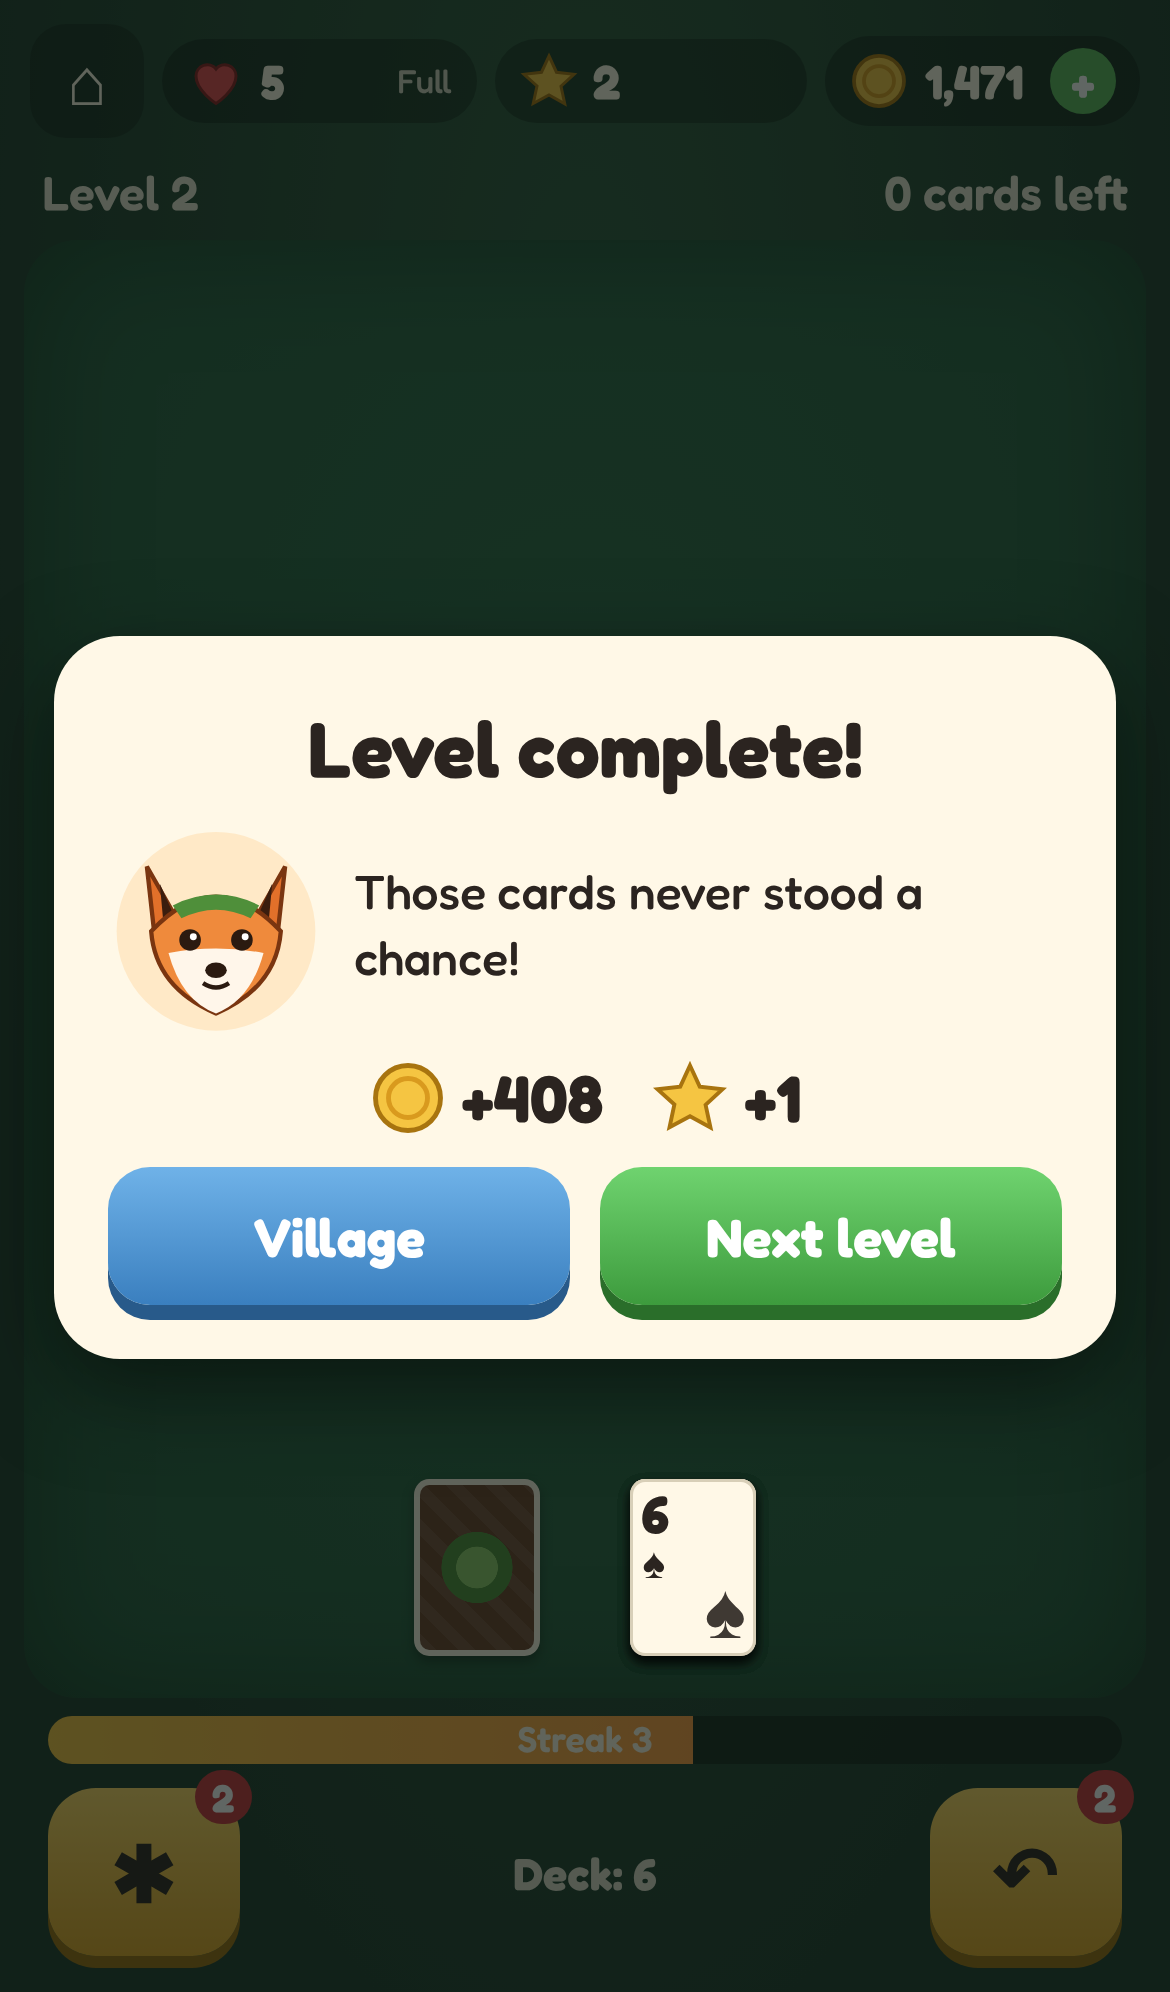
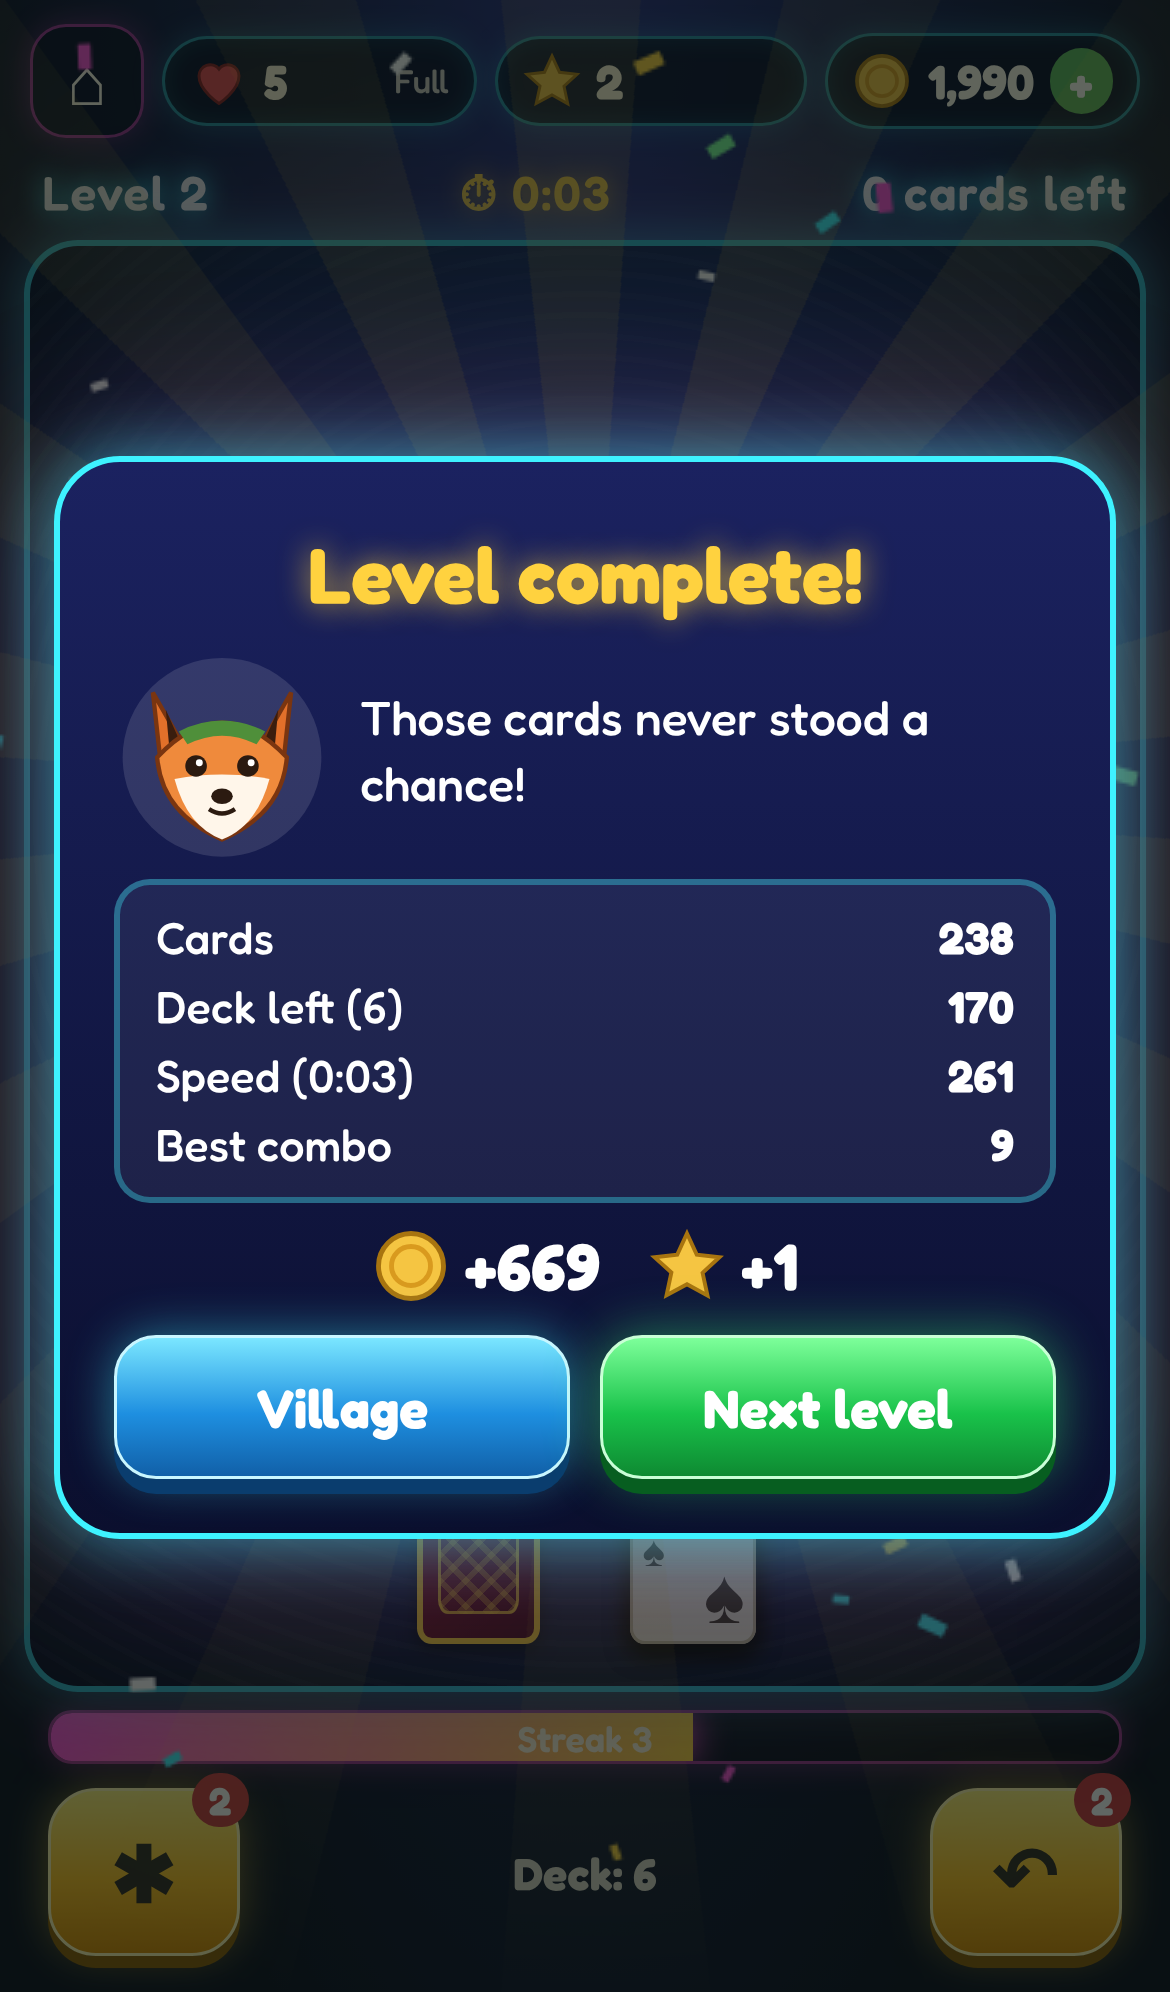
feat(mossbrook): bar-table look and feel (dark neon theme, glossy cards, combo popups, round timer, speed bonus, score tally, confetti win)
Story: mossbrook plan phase 2

Claude-Session: https://claude.ai/code/session_01QqDVFmBhHUwcQ7xNRuR2UE

diff --git a/mossbrook/web/game.js b/mossbrook/web/game.js
@@ -18,6 +18,7 @@ const T = {
     coinsSub: '', appOnly: 'Purchases are only available in the app.', pending: 'Payment is being processed.',
     buyErr: 'The store is not reachable right now. Please try again.', thanks: 'Thank you! Items added.',
     settings: 'Settings', sound: 'Sound', privacy: 'Privacy policy', support: 'Support', version: 'Version',
+    tCards: 'Cards', tDeck: 'Deck left ({0})', tTime: 'Speed ({0})', tCombo: 'Best combo', comboX: 'Combo x{0}', combos: ['Nice!', 'Great!', 'Super!', 'Amazing!', 'Unstoppable!'],
     tip1: 'Tap a card that is one higher or one lower than the open card. King and Ace connect!',
     tip2: 'No match? Tap the deck to draw a new card.',
     tip3: 'Clear all cards to win. Every card in a row fills your streak for bonus coins.',
@@ -45,6 +46,7 @@ const T = {
     coinsSub: '', appOnly: 'Käufe gibt es nur in der App.', pending: 'Zahlung wird bearbeitet.',
     buyErr: 'Der Store ist gerade nicht erreichbar. Bitte nochmal versuchen.', thanks: 'Danke! Inhalte hinzugefügt.',
     settings: 'Einstellungen', sound: 'Ton', privacy: 'Datenschutz', support: 'Support', version: 'Version',
+    tCards: 'Karten', tDeck: 'Rest-Stapel ({0})', tTime: 'Tempo ({0})', tCombo: 'Beste Serie', comboX: 'Serie x{0}', combos: ['Gut!', 'Klasse!', 'Super!', 'Wahnsinn!', 'Unaufhaltsam!'],
     tip1: 'Tippe eine Karte, die eins höher oder eins tiefer ist als die offene Karte. König und Ass passen auch!',
     tip2: 'Nichts passt? Tippe auf den Stapel für eine neue Karte.',
     tip3: 'Räume alle Karten ab, um zu gewinnen. Karten am Stück füllen die Serie für Bonus-Münzen.',
@@ -172,18 +174,19 @@ function hud() {
   if (G) { $('jokerN').textContent = S.jokers; $('undoN').textContent = S.undos;
     $('btnJoker').classList.toggle('off', !S.jokers); $('btnUndo').classList.toggle('off', !S.undos || !G.hist.length); }
 }
-setInterval(hud, 1000);
+setInterval(() => { hud(); if (G && !G.over) $('gTime').textContent = '\u23F1 ' + fmtTime(now() - G.t0); }, 1000);
 
 // ---------- village ----------
 function sceneSVG() {
-  const sky = [['#9fd8f5', '#e6f6ff'], ['#f7a46b', '#ffe0b8'], ['#a9c3e0', '#eef4fb']][S.district % 3];
-  const grass = [['#86c06a', '#5f9e4c'], ['#a9c46a', '#7a9e3f'], ['#e9f0f5', '#c9d6df']][S.district % 3];
+  const sky = [['#0d1240', '#3b3a8f'], ['#2a1450', '#d9675a'], ['#0b2140', '#3f6f9a']][S.district % 3];
+  const grass = [['#3f7a4a', '#2c5a3a'], ['#6a7a3a', '#4a5a2a'], ['#b9c9d6', '#8fa3b5']][S.district % 3];
   const g = (k, ruin, built) => '<g id="t-' + k + '"><g class="ruin">' + ruin + '</g><g class="built">' + built + '</g></g>';
   return '<svg viewBox="0 0 360 440" preserveAspectRatio="xMidYMid slice">' +
   '<defs><linearGradient id="sky" x1="0" y1="0" x2="0" y2="1"><stop offset="0" stop-color="' + sky[0] + '"/><stop offset="1" stop-color="' + sky[1] + '"/></linearGradient>' +
   '<radialGradient id="glow"><stop offset="0" stop-color="#ffe9a0" stop-opacity=".9"/><stop offset="1" stop-color="#ffe9a0" stop-opacity="0"/></radialGradient></defs>' +
   '<rect width="360" height="440" fill="url(#sky)"/>' +
-  (S.district % 3 === 1 ? '<circle cx="290" cy="70" r="34" fill="#ffcf6b" opacity=".9"/>' : '<circle cx="290" cy="60" r="26" fill="#fff4b0"/>') +
+  Array.from({ length: 26 }, (_, i) => '<circle cx="' + ((i * 137) % 360) + '" cy="' + ((i * 71) % 110 + 6) + '" r="' + (i % 3 ? 1 : 1.8) + '" fill="#fff" opacity="' + (0.4 + (i % 4) * 0.15) + '"/>').join('') +
+  (S.district % 3 === 1 ? '<circle cx="290" cy="80" r="34" fill="#ffb36b" opacity=".9"/>' : '<circle cx="290" cy="56" r="22" fill="#fff8d0"/><circle cx="298" cy="50" r="20" fill="' + sky[0] + '"/>') +
   '<path d="M0 120 Q60 80 130 110 T260 100 T360 115 V440 H0Z" fill="' + grass[1] + '" opacity=".7"/>' +
   '<path d="M0 150 Q90 120 180 140 T360 135 V440 H0Z" fill="' + grass[0] + '"/>' +
   '<path d="M360 150 C300 190 250 200 220 240 C190 280 120 290 90 330 C60 370 30 400 0 420 V440 H40 C70 410 110 380 140 350 C170 320 230 300 260 260 C290 225 330 205 360 190Z" fill="#5aa9d6"/>' +
@@ -368,7 +371,7 @@ function startLevel(n) {
   if (!infinite() && S.lives <= 0) { noLives(); return; }
   closeModal();
   const L = genLevel(n);
-  G = { n, hard: L.hard, cards: L.cards, stock: L.stock, waste: [], hist: [], streak: 0, best: 0, earned: 0, plusN: 0, idle: 0 };
+  G = { n, hard: L.hard, cards: L.cards, stock: L.stock, waste: [], hist: [], streak: 0, best: 0, earned: 0, plusN: 0, idle: 0, t0: now() };
   $('village').classList.add('hidden'); $('game').classList.remove('hidden');
   $('btnHome').innerHTML = '&#8962;';
   $('gLevel').textContent = t('level', n) + (G.hard ? ' • ' + t('hard') : '');
@@ -408,12 +411,34 @@ function refresh() {
   $('stockCount').textContent = t('stock', G.stock.length);
   const left = G.cards.filter(c => !c.gone).length;
   $('gGoal').textContent = t('cardsLeft', left);
+  G.left = left;
   const pct = Math.min(1, (G.streak % 5) / 5 + (G.streak && G.streak % 5 === 0 ? 1 : 0));
   $('streakFill').style.width = (pct * 100) + '%';
   $('streakTxt').textContent = t('streak', G.streak);
   G.idle = 0;
   hud();
   tutorial();
+}
+function confetti() {
+  const app = $('app'), c = el('canvas'); c.id = 'fx'; c.width = app.clientWidth; c.height = app.clientHeight; app.appendChild(c);
+  const r = el('div', 'rays'); app.appendChild(r);
+  const x = c.getContext('2d'), cols = ['#3ef2ff', '#ff4fd8', '#ffd23f', '#7dff9a', '#ffffff'];
+  const ps = Array.from({ length: 140 }, () => ({ x: c.width / 2, y: c.height * 0.45, vx: (Math.random() - .5) * 14, vy: -Math.random() * 14 - 4, s: 4 + Math.random() * 6, c: cols[Math.floor(Math.random() * 5)], a: Math.random() * 6 }));
+  let f = 0;
+  (function tick() {
+    x.clearRect(0, 0, c.width, c.height);
+    ps.forEach(p => { p.vy += .35; p.x += p.vx; p.y += p.vy; p.a += .2; x.save(); x.translate(p.x, p.y); x.rotate(p.a); x.fillStyle = p.c; x.fillRect(-p.s / 2, -p.s / 4, p.s, p.s / 2); x.restore(); });
+    if (++f < 150) requestAnimationFrame(tick); else c.remove();
+  })();
+  setTimeout(() => r.remove(), 4000);
+}
+function combo(n) {
+  const o = document.getElementById('combo'); if (o) o.remove();
+  const words = T[LANG].combos, w = words[Math.min(words.length - 1, Math.floor((n - 3) / 3))];
+  const d = el('div', '', w + '<small>' + t('comboX', n) + '</small>'); d.id = 'combo';
+  d.style.top = (G.geo.y0 + G.geo.ch * 0.6) + 'px';
+  if (n >= 9) d.classList.add('hot');
+  $('board').appendChild(d); setTimeout(() => d.remove(), 900);
 }
 function flyText(txt, x, y) { const f = el('div', 'fly', txt); f.style.left = x + 'px'; f.style.top = y + 'px'; $('board').appendChild(f); setTimeout(() => f.remove(), 1000); }
 function pushWaste(item) {
@@ -438,6 +463,7 @@ function tapCard(c) {
   c.el.classList.remove('play');
   const [x, y] = cardPos(c);
   flyText('+' + gain, x, y);
+  if (G.streak >= 3) combo(G.streak);
   tone(392 * Math.pow(2, Math.min(G.streak, 14) / 12), .1); haptic('merge');
   refresh();
   checkEnd();
@@ -492,11 +518,13 @@ function checkEnd() {
 function win() {
   G.over = true;
   const tipEl = document.getElementById('tip'); if (tipEl) tipEl.remove();
-  const bonus = 50 + G.stock.length * 20, coins = G.earned + bonus, stars = G.hard ? 2 : 1;
+  const secs = Math.round((now() - G.t0) / 1000), timeB = Math.max(0, (90 - secs) * 3);
+  const deckB = G.stock.length * 20, bonus = 50 + deckB + timeB, coins = G.earned + bonus, stars = G.hard ? 2 : 1;
   S.coins += coins; S.stars += stars; S.level = G.n + 1; S.wins++; save();
-  [523, 659, 784, 1047].forEach((f, i) => setTimeout(() => tone(f, .18), i * 120)); haptic('deliver');
+  [523, 659, 784, 1047].forEach((f, i) => setTimeout(() => tone(f, .18), i * 120)); haptic('deliver'); confetti();
   const line = T[LANG].wrenWin[G.n % T[LANG].wrenWin.length];
   setTimeout(() => modal('<h2>' + t('winT') + '</h2>' + who(fox(), line) +
+    '<div class="tally"><span>' + t('tCards') + '</span><b>' + G.earned + '</b><span>' + t('tDeck', G.stock.length) + '</span><b>' + (50 + deckB) + '</b><span>' + t('tTime', fmtTime(secs * 1000)) + '</span><b>' + timeB + '</b><span>' + t('tCombo') + '</span><b>' + G.best + '</b></div>' +
     '<div class="reward"><span><span class="ic coin"></span>+' + coins + '</span><span><span class="ic star"></span>+' + stars + '</span></div>' +
     '<div class="row">' + btn('mVil', 'blue', t('village')) + btn('mNext', 'green', t('next')) + '</div>', m => {
       m.querySelector('#mVil').onclick = () => { closeModal(); showVillage(); };

diff --git a/mossbrook/web/style.css b/mossbrook/web/style.css
@@ -121,3 +121,54 @@ button { font-family: inherit; cursor: pointer; border: 0; }
 #toast.on { opacity: 1; }
 #tip { position: absolute; left: 10px; right: 10px; bottom: 8px; font-size: 14px; line-height: 1.25; z-index: 400; background: var(--cream); color: var(--ink); border-radius: 14px; padding: 8px 10px; font-size: 15px; box-shadow: 0 4px 12px rgba(0,0,0,.4); display: flex; gap: 8px; align-items: center; }
 #tip svg { width: 40px; height: 40px; flex: none; }
+
+#combo { position: absolute; left: 0; right: 0; text-align: center; z-index: 450; pointer-events: none; font-size: 34px; font-weight: 700; color: var(--gold); text-shadow: 0 3px 0 #7a4a08, 0 0 16px rgba(255,200,60,.6); animation: combo .9s ease-out forwards; }
+#combo small { display: block; font-size: 16px; color: var(--cream); text-shadow: 0 2px 0 rgba(0,0,0,.5); }
+#combo.hot { color: #ff8a3d; font-size: 40px; }
+@keyframes combo { 0% { transform: scale(.4); opacity: 0; } 20% { transform: scale(1.15); opacity: 1; } 70% { transform: scale(1); opacity: 1; } 100% { transform: translateY(-24px); opacity: 0; } }
+.tally { display: grid; grid-template-columns: 1fr auto; gap: 4px 12px; text-align: left; font-size: 15px; background: #fff; border: 2px solid #eadfc4; border-radius: 12px; padding: 8px 12px; margin: 6px 0; font-variant-numeric: tabular-nums; }
+.tally b { text-align: right; }
+
+/* ===== Bar-table look (dark, neon, glossy) ===== */
+:root { --bg1: #070a1c; --bg2: #18205a; --felt: #1c2f7a; --felt2: #0b123a; --neon: #3ef2ff; --neon2: #ff4fd8; --gold: #ffd23f; --gold2: #b8860b; }
+#app { background: radial-gradient(ellipse at 50% -10%, #2a2f86 0%, var(--bg2) 30%, var(--bg1) 80%); }
+.pill { background: rgba(6,10,35,.85); border: 1.5px solid rgba(62,242,255,.55); box-shadow: 0 0 10px rgba(62,242,255,.25), inset 0 0 8px rgba(62,242,255,.15); }
+.iconbtn { background: rgba(6,10,35,.85); border: 1.5px solid rgba(255,79,216,.6); box-shadow: 0 0 10px rgba(255,79,216,.3); }
+#vTitle, #gHead { color: #fff; text-shadow: 0 0 8px var(--neon), 0 0 18px rgba(62,242,255,.5); letter-spacing: .5px; }
+#gTime { color: var(--gold); text-shadow: 0 0 8px rgba(255,210,63,.7); font-variant-numeric: tabular-nums; }
+#board { border: 2px solid rgba(62,242,255,.7); box-shadow: 0 0 18px rgba(62,242,255,.45), 0 0 40px rgba(255,79,216,.18), inset 0 0 60px rgba(0,0,0,.6);
+  background: radial-gradient(ellipse at 50% 35%, #2a46b0 0%, var(--felt) 35%, var(--felt2) 85%); }
+#board::before { content: ''; position: absolute; inset: 0; pointer-events: none; background: repeating-radial-gradient(circle at 50% 40%, rgba(255,255,255,.025) 0 2px, transparent 2px 7px); }
+#scene svg { border: 2px solid rgba(255,79,216,.7); box-shadow: 0 0 18px rgba(255,79,216,.45), 0 0 34px rgba(62,242,255,.2); }
+.card .b { background: linear-gradient(135deg, #8a0f2f, #4a0620); border: 2px solid var(--gold); box-shadow: 0 2px 6px rgba(0,0,0,.6); }
+.card .b::after { inset: 14% 14%; border-radius: 12%; background: repeating-linear-gradient(45deg, rgba(255,210,63,.35) 0 2px, transparent 2px 6px), repeating-linear-gradient(-45deg, rgba(255,210,63,.35) 0 2px, transparent 2px 6px); border: 1.5px solid rgba(255,210,63,.8); }
+.card .f { background: linear-gradient(180deg, #ffffff 0%, #f2f0ea 100%); border: 1.5px solid #c9c2ae; box-shadow: 0 3px 8px rgba(0,0,0,.55); }
+.card .f.red { color: #e0102f; }
+.card.play .f { box-shadow: 0 0 0 2px rgba(62,242,255,.0), 0 3px 8px rgba(0,0,0,.55); }
+.card.hint .f { animation: hintN 1s ease-in-out infinite; }
+@keyframes hintN { 50% { box-shadow: 0 0 0 3px var(--neon), 0 0 18px var(--neon); } }
+.card.wild .f { background: linear-gradient(135deg, #fff1a8, #ffc21a); box-shadow: 0 0 14px var(--gold); }
+#streak { border: 1.5px solid rgba(255,79,216,.6); box-shadow: 0 0 10px rgba(255,79,216,.3); height: 18px; }
+#streakFill { background: linear-gradient(90deg, var(--neon2), var(--gold)); box-shadow: 0 0 12px var(--neon2); }
+#streakTxt { line-height: 18px; }
+.booster { background: linear-gradient(#fff07a, #ffbf1f 55%, #d68a00); box-shadow: 0 4px 0 #8a5a00, 0 0 14px rgba(255,210,63,.5); border: 1.5px solid #fff3b0; }
+.green { background: linear-gradient(#7dff9a, #19c24a 55%, #0e8a32); box-shadow: 0 5px 0 #075e20, 0 0 18px rgba(60,255,120,.45); border: 1.5px solid #c9ffd6; }
+.blue { background: linear-gradient(#7ae6ff, #1e8fe0 55%, #1160a8); box-shadow: 0 5px 0 #0a3d6e, 0 0 16px rgba(62,242,255,.45); border: 1.5px solid #c8f6ff; }
+.gold { background: linear-gradient(#fff07a, #ffbf1f 55%, #d68a00); box-shadow: 0 5px 0 #8a5a00, 0 0 16px rgba(255,210,63,.5); border: 1.5px solid #fff3b0; }
+.big { letter-spacing: .5px; }
+#mbox { background: linear-gradient(180deg, #1b2260, #0b0f2e); color: #fff; border: 2px solid var(--neon); box-shadow: 0 0 24px rgba(62,242,255,.55), 0 0 60px rgba(255,79,216,.25); }
+#mbox h2 { color: var(--gold); text-shadow: 0 0 10px rgba(255,210,63,.7); }
+.tally, .sitem { background: rgba(255,255,255,.06); border-color: rgba(62,242,255,.35); color: #fff; }
+.sitem .sub, .small { color: #b9c3ff; }
+.sitem.wide { background: linear-gradient(#4a2a00, #2a1800); border-color: var(--gold); }
+.settings label { border-color: rgba(62,242,255,.25); }
+.settings a { color: var(--neon); }
+.task { background: linear-gradient(180deg, #1b2260, #0e1340); color: #fff; border: 1.5px solid rgba(62,242,255,.5); box-shadow: 0 0 10px rgba(62,242,255,.25); }
+.task button[disabled] { background: #3a3f63; box-shadow: 0 2px 0 #23264a; color: #8a90b8; }
+#tip { background: rgba(10,14,48,.95); color: #fff; border: 1.5px solid var(--neon); box-shadow: 0 0 14px rgba(62,242,255,.5); }
+.who svg circle:first-child { fill: rgba(255,255,255,.12); }
+#fx { position: absolute; inset: 0; pointer-events: none; z-index: 49; }
+.rays { position: absolute; left: 50%; top: 40%; width: 900px; height: 900px; margin: -450px 0 0 -450px; pointer-events: none; z-index: 48;
+  background: repeating-conic-gradient(rgba(255,210,63,.18) 0 10deg, transparent 10deg 20deg); border-radius: 50%; -webkit-mask: radial-gradient(circle, #000 20%, transparent 65%); mask: radial-gradient(circle, #000 20%, transparent 65%); animation: spin 8s linear infinite; }
+@keyframes spin { to { transform: rotate(360deg); } }
+#board { isolation: isolate; z-index: 1; }

diff --git a/mossbrook/web/index.html b/mossbrook/web/index.html
@@ -3,7 +3,7 @@
 <head>
 <meta charset="utf-8">
 <meta name="viewport" content="width=device-width,initial-scale=1,maximum-scale=1,user-scalable=no,viewport-fit=cover">
-<meta name="theme-color" content="#1f3b2d">
+<meta name="theme-color" content="#070a1c">
 <title>Mossbrook Solitaire</title>
 <link rel="stylesheet" href="style.css">
 </head>
@@ -26,7 +26,7 @@
   </section>
 
   <section id="game" class="screen hidden">
-    <div id="gHead"><span id="gLevel"></span><span id="gGoal"></span></div>
+    <div id="gHead"><span id="gLevel"></span><span id="gTime"></span><span id="gGoal"></span></div>
     <div id="board"></div>
     <div id="streak"><div id="streakFill"></div><span id="streakTxt"></span></div>
     <div id="gBottom">
